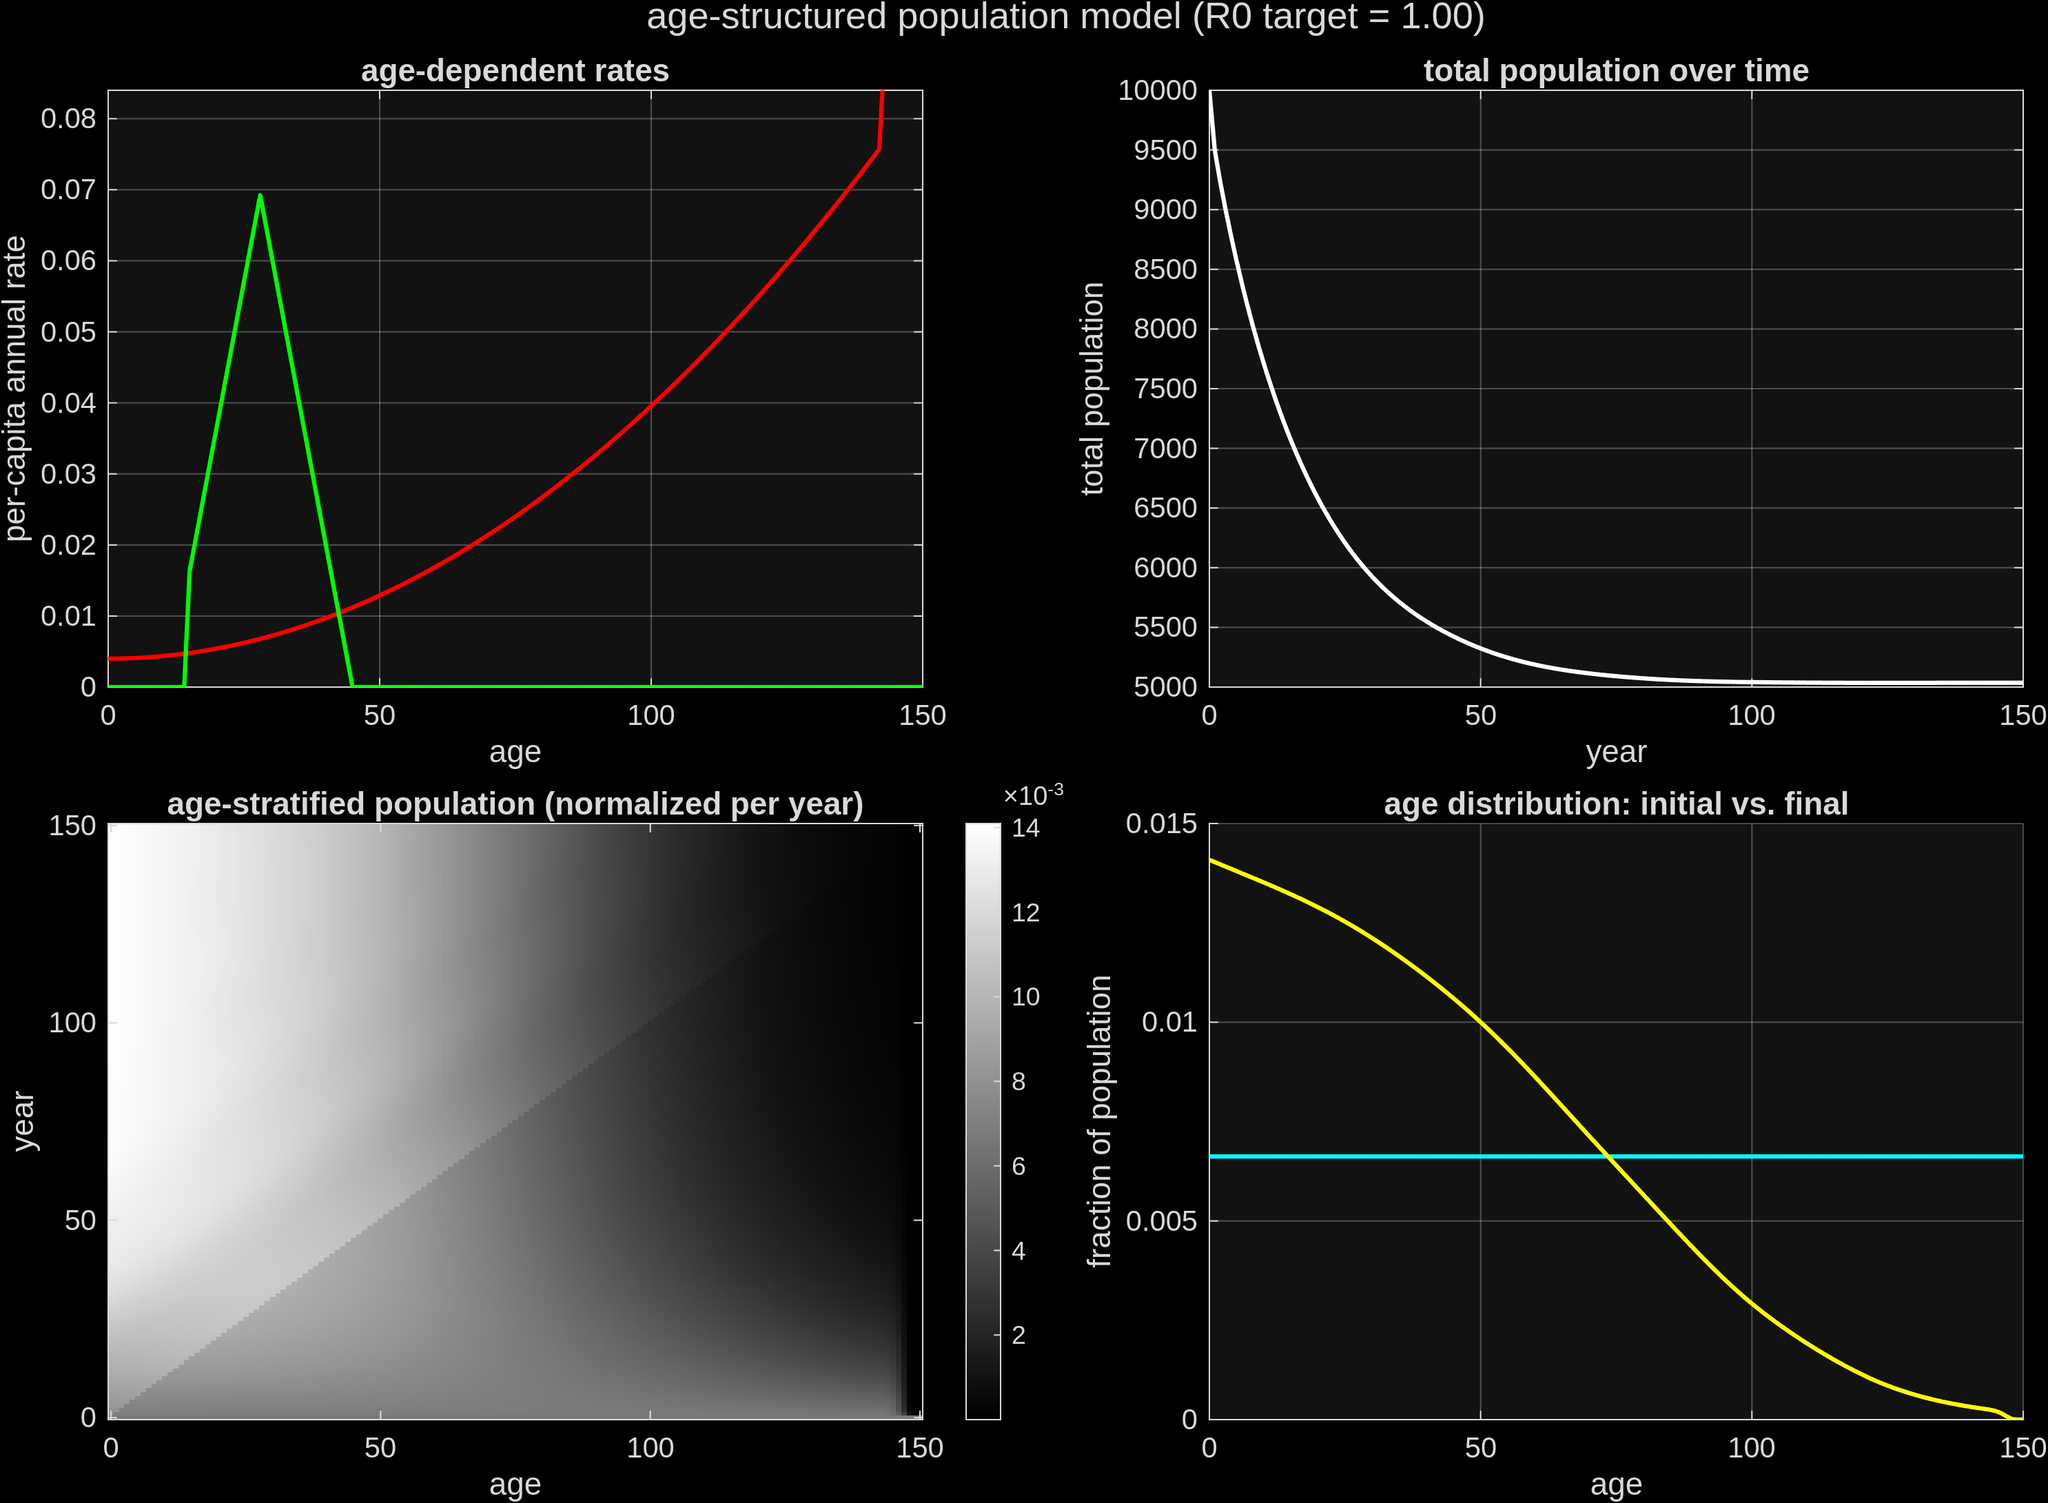
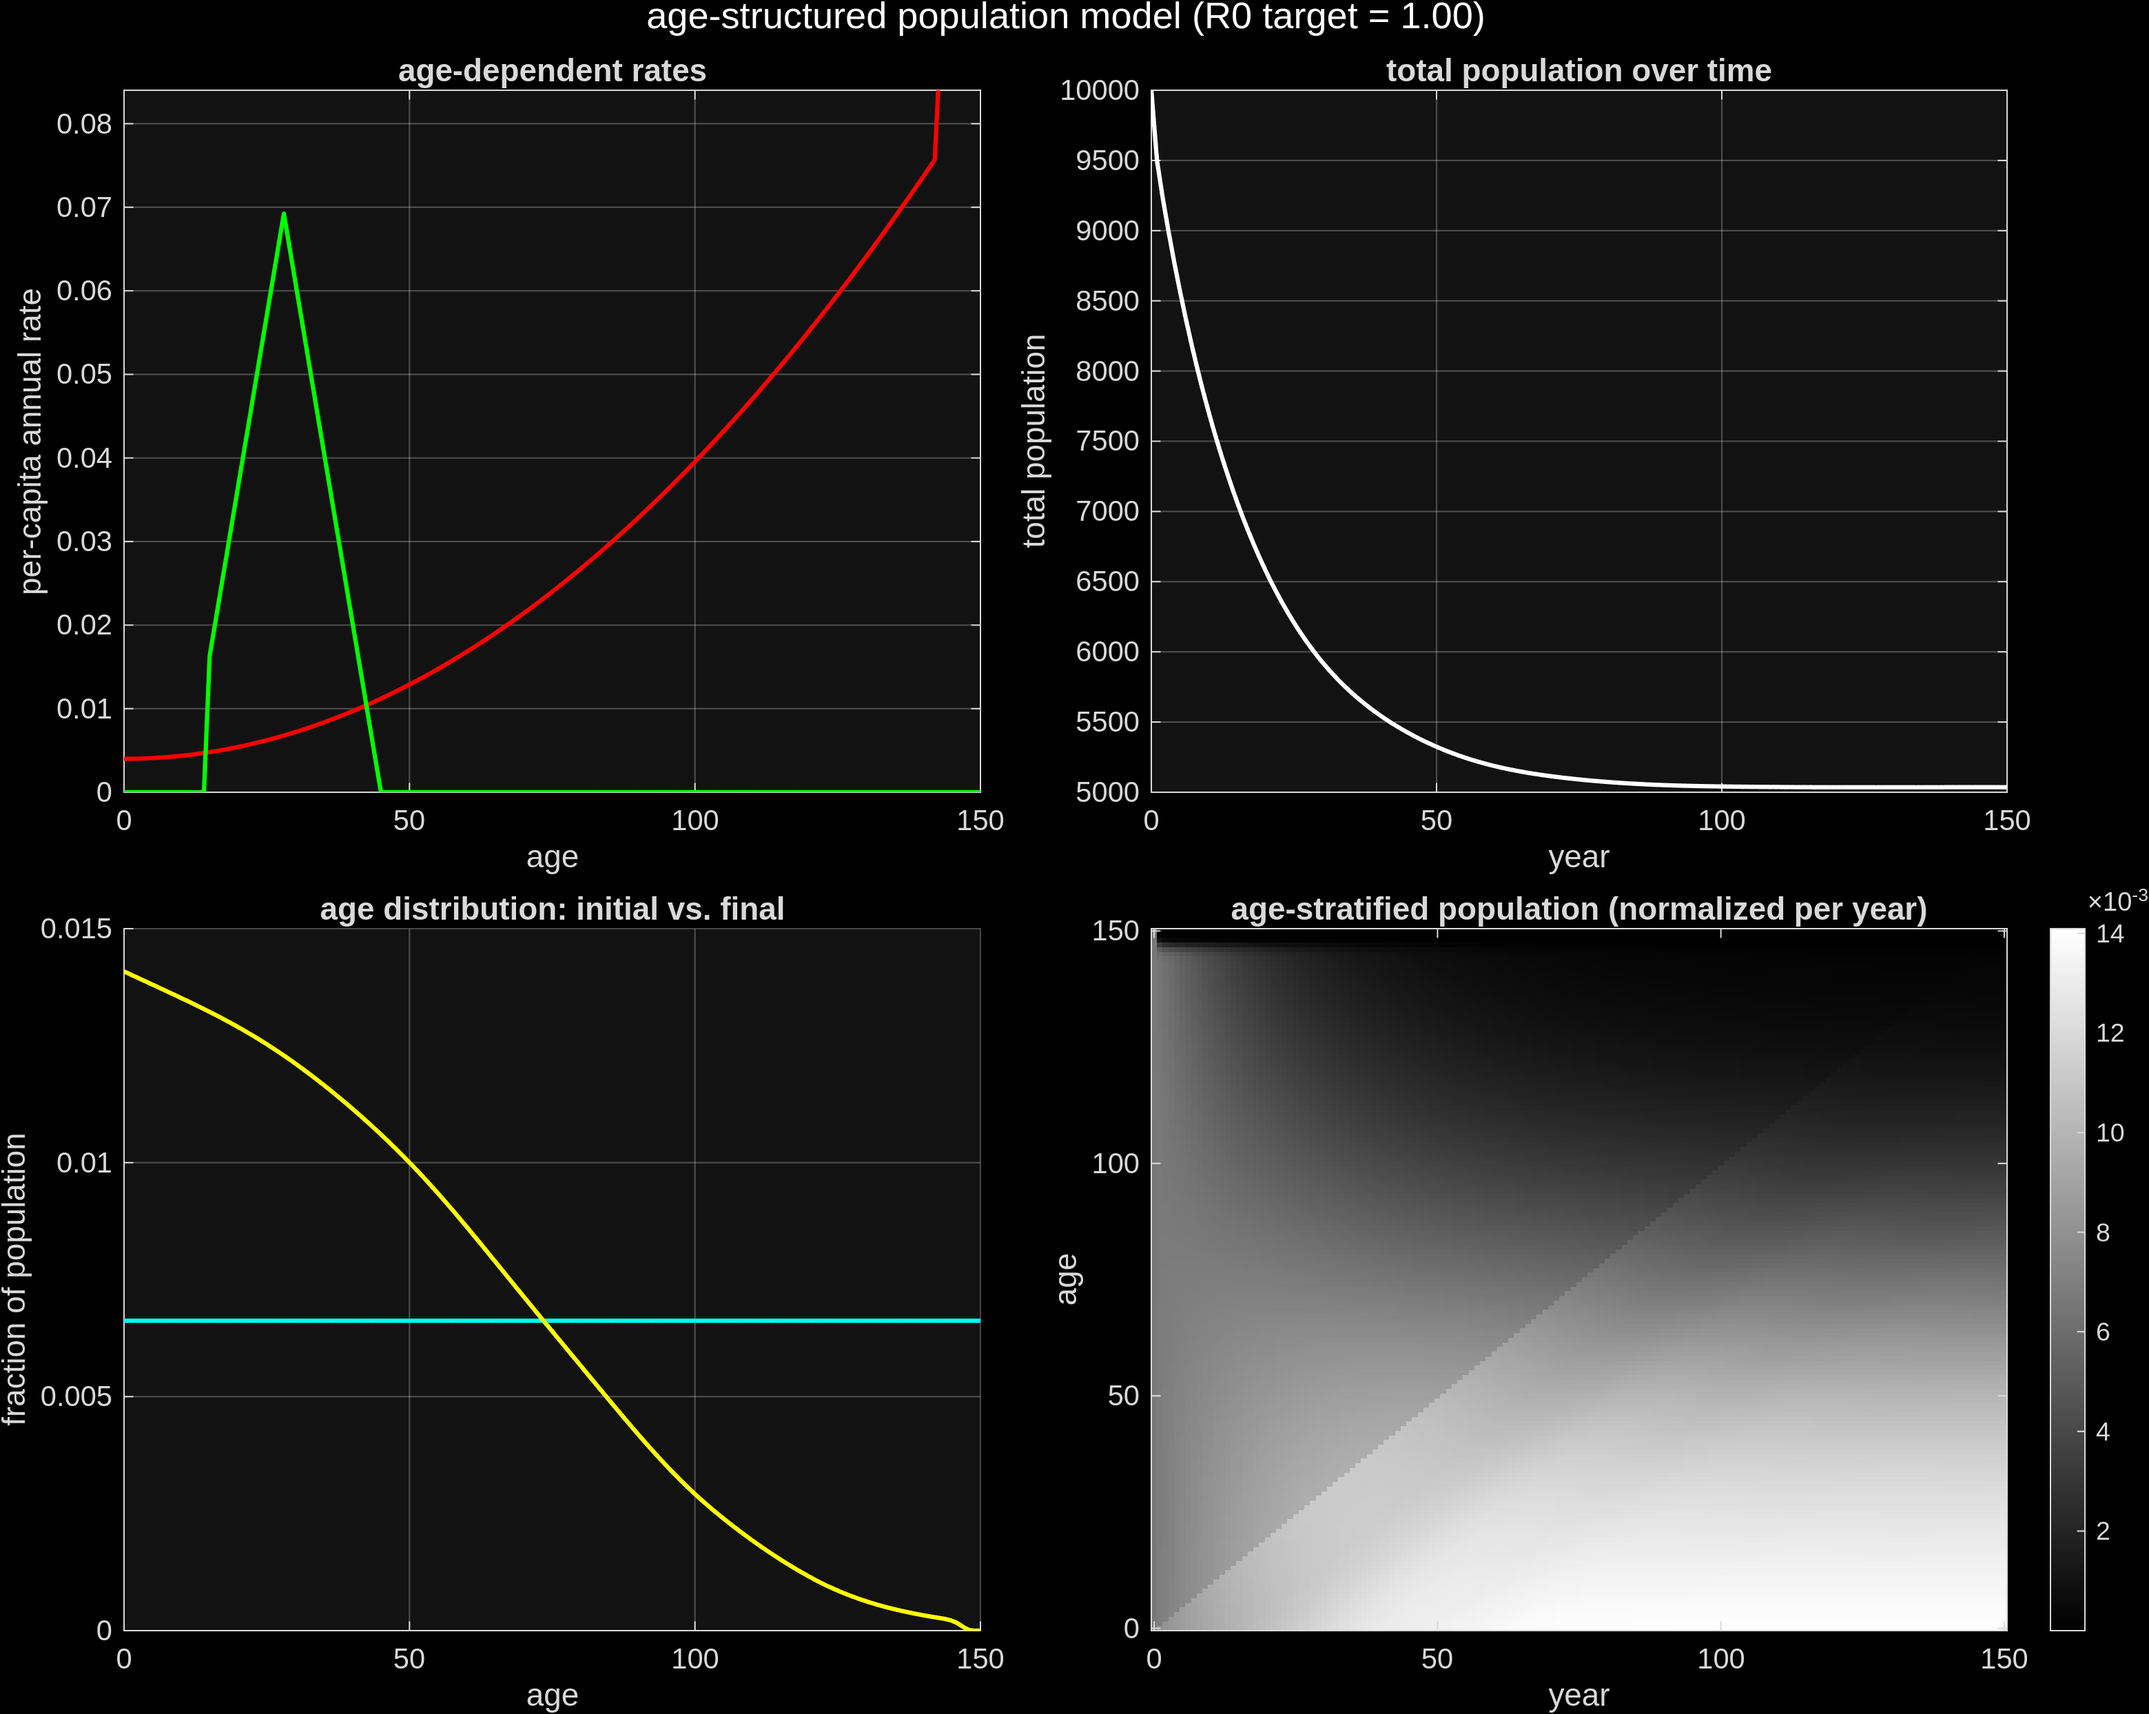
Swap heatmap axes and the two bottom panels; fix dark-theme regression
- Heatmap axes flipped back: year on x, age on y.
- Bottom two panels swapped again: age-distribution comparison now
  bottom-left, heatmap now bottom-right. README's panel bullets
  updated to match.
- Explicitly set the figure Color to black and the tiledlayout title
  to white -- the previous black-page look came from an interactive-
  only MATLAB preference that didn't carry into headless `-batch`
  runs, so regenerating the export had silently reverted to a white
  page background. Now reproducible regardless of environment.

diff --git a/doIt.m b/doIt.m
@@ -81,8 +81,8 @@ totalPop = sum(N,1);
 %% Plot results
 %%%%%%%%%%%%%%%%%%%
 years = 0:nYears;
-figure('Position',[100 100 1000 800]); ht = tiledlayout(2,2); ht.Padding = 'compact'; ht.TileSpacing = 'compact';
-title(ht, sprintf('age-structured population model (R0 target = %.2f)', targetR0))
+fig = figure('Position',[100 100 1000 800],'Color','k'); ht = tiledlayout(2,2); ht.Padding = 'compact'; ht.TileSpacing = 'compact';
+title(ht, sprintf('age-structured population model (R0 target = %.2f)', targetR0), 'Color','w')
 
 nexttile
 plot(ageVec, mortality, 'r-', ageVec, fertility, 'g-', 'LineWidth', 1.5)
@@ -102,14 +102,6 @@ xlabel('year'); ylabel('total population')
 title('total population over time')
 grid on
 
-ax = nexttile;
-Nnorm = N ./ sum(N,1);   % normalize each year (column) to sum to 1 -- per-year age-distribution shape
-imagesc(ageVec, years, Nnorm.'); set(gca,'YDir','normal')
-xlabel('age'); ylabel('year')
-title('age-stratified population (normalized per year)')
-colorbar
-colormap gray
-
 nexttile
 hold on
 plot(ageVec, N(:,1)/sum(N(:,1)), 'c-', 'LineWidth', 1.5)
@@ -118,6 +110,14 @@ xlabel('age'); ylabel('fraction of population')
 title('age distribution: initial vs. final')
 legend({'initial (uniform)','final (stable)'}, 'Location','best')
 grid on
+
+ax = nexttile;
+Nnorm = N ./ sum(N,1);   % normalize each year (column) to sum to 1 -- per-year age-distribution shape
+imagesc(years, ageVec, Nnorm); set(gca,'YDir','normal')
+xlabel('year'); ylabel('age')
+title('age-stratified population (normalized per year)')
+colorbar
+colormap gray
 %% %%%%%%%%%%%%%%%%%
 
 %%%%%%%%%%%%%%%%%

diff --git a/README.md b/README.md
@@ -13,10 +13,10 @@ without bound — see [`populationModel.md`](populationModel.md) for why.
   the fertile age window).
 - **top-right** — total population over time, settling from its (deliberately non-stable) initial
   condition toward a steady long-run value.
-- **bottom-left** — the full age-stratified population, normalized within each year, showing the
-  age distribution's shape converge over time.
-- **bottom-right** — the initial (uniform) vs. final (stable) age distribution, directly comparing
+- **bottom-left** — the initial (uniform) vs. final (stable) age distribution, directly comparing
   the starting and converged shapes.
+- **bottom-right** — the full age-stratified population, normalized within each year, showing the
+  age distribution's shape converge over time.
 
 ## Running it
 
